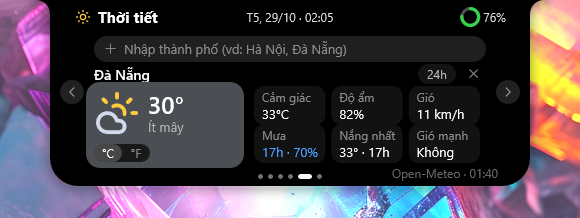
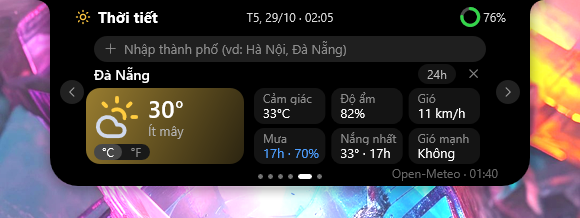
feat(weather): the sky card takes the colour of the sun or the rain as a gradient, clear of the city line; the figure cards are tighter and level with it

diff --git a/src/render.rs b/src/render.rs
@@ -297,16 +297,16 @@ pub const LIST_ROWS: usize = 3;
 /// words under that, the unit chips under the icon. Right block (from `STATS_X` to the content's
 /// right): a 3 x 2 grid of figures, or the 24-hour strip in its place.
 const CITY_Y: f32 = 62.0;
-const ICON_Y: f32 = 90.0;
+const ICON_Y: f32 = 94.0;
 const WX_ICON: f32 = 46.0;
 const TEMP_X: f32 = 54.0;
 const UNIT_X: f32 = 0.0;
 const UNIT_Y: f32 = 144.0;
 const UNIT_W: f32 = 28.0;
-const UNIT_H: f32 = 18.0;
+const UNIT_H: f32 = 16.0;
 const STATS_X: f32 = 160.0;
 /// The grid's two rows (label on top); the 24h strip starts at the first.
-const STATS_Y: [f32; 2] = [90.0, 128.0];
+const STATS_Y: [f32; 2] = [92.0, 132.0];
 const HOURS_BTN_W: f32 = 38.0;
 
 /// Notifications page: rows of two lines.
@@ -2450,9 +2450,14 @@ impl Renderer {
                                     // Left block: the icon, the temperature beside it, the sky's words under it, the
                                     // unit chips under the icon, on a card washed with the sky's colour.
                                     {
-                                        let (sky, _) = weather::tints(n.sky, n.day);
-                                        let hero = rect(cl - 8.0 * s, (ICON_Y - 8.0) * s, cl + (STATS_X - 10.0) * s, (UNIT_Y + UNIT_H + 6.0) * s);
-                                        rt.FillRoundedRectangle(&rounded(hero, 14.0 * s), &self.brush(color(sky.0 * 0.30 + 0.05, sky.1 * 0.30 + 0.05, sky.2 * 0.30 + 0.05, a * fade))?);
+                                        // The card takes the colour of the sky's accent (the sun, the rain), not of its cloud.
+                                        let (_, sky) = weather::tints(n.sky, n.day);
+                                        let hero = rect(cl - 8.0 * s, (ICON_Y - 6.0) * s, cl + (STATS_X - 10.0) * s, (UNIT_Y + UNIT_H + 4.0) * s);
+                                        // Brighter at the top left, sinking into the panel's black at the bottom right.
+                                        let wash = |k: f32, base: f32| color(sky.0 * k + base, sky.1 * k + base, sky.2 * k + base, a * fade);
+                                        let stops = rt.CreateGradientStopCollection(&[D2D1_GRADIENT_STOP { position: 0.0, color: wash(0.55, 0.05) }, D2D1_GRADIENT_STOP { position: 1.0, color: wash(0.14, 0.03) }], D2D1_GAMMA_2_2, D2D1_EXTEND_MODE_CLAMP)?;
+                                        let line = D2D1_LINEAR_GRADIENT_BRUSH_PROPERTIES { startPoint: Vector2 { X: hero.left, Y: hero.top }, endPoint: Vector2 { X: hero.right, Y: hero.bottom } };
+                                        rt.FillRoundedRectangle(&rounded(hero, 14.0 * s), &rt.CreateLinearGradientBrush(&line, None, &stops)?);
                                     }
                                     draw_wx_icon(ic, geoms, cl, ICON_Y * s, WX_ICON * s, Some(weather::tints(n.sky, n.day)), a * fade, if current { v.page_age } else { 9.0 })?;
                                     // The big temperature, shrunk to fit before the right block when it is long
@@ -2510,9 +2515,9 @@ impl Renderer {
                                         let shown = if wx.hours.is_empty() { 3 } else { 6 };
                                         for (k, (label, value, ink)) in cells.iter().enumerate().take(shown) {
                                             let (x, y) = (bl + (k % 3) as f32 * col, STATS_Y[k / 3] * s);
-                                            rt.FillRoundedRectangle(&rounded(rect(x, y - 4.0 * s, x + col - 6.0 * s, y + 35.0 * s), 10.0 * s), &self.brush(grey(0.07, a))?);
-                                            text(label, F_LABEL, rect(x + 8.0 * s, y, x + col - 8.0 * s, y + 15.0 * s), lead, grey(0.55, a))?;
-                                            text(value, F_BODY, rect(x + 8.0 * s, y + 15.0 * s, x + col - 8.0 * s, y + 33.0 * s), lead, *ink)?;
+                                            rt.FillRoundedRectangle(&rounded(rect(x, y - 4.0 * s, x + col - 6.0 * s, y + 32.0 * s), 10.0 * s), &self.brush(grey(0.08, a))?);
+                                            text(label, F_LABEL, rect(x + 9.0 * s, y - 1.0 * s, x + col - 9.0 * s, y + 13.0 * s), lead, grey(0.55, a))?;
+                                            text(value, F_BODY, rect(x + 9.0 * s, y + 12.0 * s, x + col - 9.0 * s, y + 30.0 * s), lead, *ink)?;
                                         }
                                     }
                                 }
